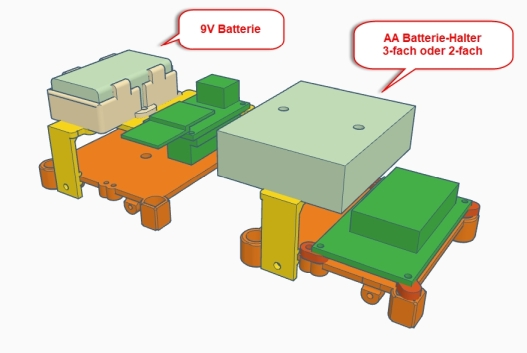
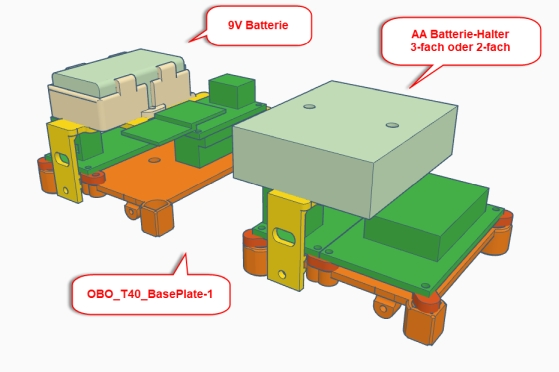
Update OBO-Toolbox - OBO T40

diff --git a/3DP_OBO_T40_HB/README.md b/3DP_OBO_T40_HB/README.md
@@ -4,7 +4,7 @@
 
 #### Beschreibung
 
-OBO Toolbox - OBO T40 für 'HB HomeBrew' Platinen   _...  (Beschreibung folgt in Kürze ...)_
+OBO Toolbox - OBO T40 für 'HB HomeBrew' Platinen
 
 #### STL-Dateien
 - OBO T40 für 'HB HomeBrew' Platinen - [Download ...](./bin/OBO_T40_HB_20200305.zip)
@@ -14,11 +14,11 @@ OBO Toolbox - OBO T40 für 'HB HomeBrew' Platinen   _...  (Beschreibung folgt in
 <br><br>
 ![WW-myPCB - OBO Toolbox HB](./img/OBO_T40_HB_01.jpg "OBO T40 HB")
 ![WW-myPCB - OBO Toolbox HB](./img/OBO_T40_HB_02.jpg "OBO T40 HB")
-![WW-myPCB - OBO Toolbox HB](./img/OBO_T40_HB_03.jpg "OBO T40 HB")
-![WW-myPCB - OBO Toolbox HB](./img/OBO_T40_HB_04.jpg "OBO T40 HB")
 ![WW-myPCB - OBO Toolbox HB](./img/OBO_T40_HB_05.jpg "OBO T40 HB")
 ![WW-myPCB - OBO Toolbox HB](./img/OBO_T40_HB_06.jpg "OBO T40 HB")
 ![WW-myPCB - OBO Toolbox HB](./img/OBO_T40_HB_07.jpg "OBO T40 HB")
+![WW-myPCB - OBO Toolbox HB](./img/OBO_T40_HB_03.jpg "OBO T40 HB")
+![WW-myPCB - OBO Toolbox HB](./img/OBO_T40_HB_04.jpg "OBO T40 HB")
 <br><br>
 - Übersicht - OBO T40 für 'HB HomeBrew' Platinen (mit Sensor-Platine 'Sens-Gar-118x')
 <br><br>
@@ -35,8 +35,13 @@ OBO Toolbox - OBO T40 für 'HB HomeBrew' Platinen   _...  (Beschreibung folgt in
 ![WW-myPCB - OBO Toolbox HB](./img/OBO_T40_HB_BasePlate-A.jpg "OBO_T40_HB_BasePlate-A")
 ![WW-myPCB - OBO Toolbox HB](./img/OBO_T40_HB_BatHolder.jpg "OBO_T40_HB_BatHolder")
 ![WW-myPCB - OBO Toolbox HB](./img/OBO_T40_HB_BatHolder_118x.jpg "OBO_T40_HB_BatHolder_118x")
+![WW-myPCB - OBO Toolbox HB](./img/OBO_T40_Holder_HB-UNI-Sens-X.jpg "OBO_T40_Holder_HB-UNI-Sens-X")
+![WW-myPCB - OBO Toolbox HB](./img/OBO_T40_Holder_HB-UNI-Mini-X.jpg "OBO_T40_Holder_HB-UNI-Mini-X")
+![WW-myPCB - OBO Toolbox HB](./img/OBO_T40_Holder_HB-UNI-Mini.jpg "OBO_T40_Holder_HB-UNI-Mini")
 ![WW-myPCB - OBO Toolbox HB](./img/OBO_T40_HB_BatHolder_9V.jpg "OBO_T40_HB_BatHolder_9V")
 
 #### Historie
+- 2020-03-05 - Komplett-Update der STL 3D-Print Dateien
+  - Version 1.1 - 03-2020
 - 2020-01-10 - Erstveröffentlichung
   - Version 1.0 - 12-2019
